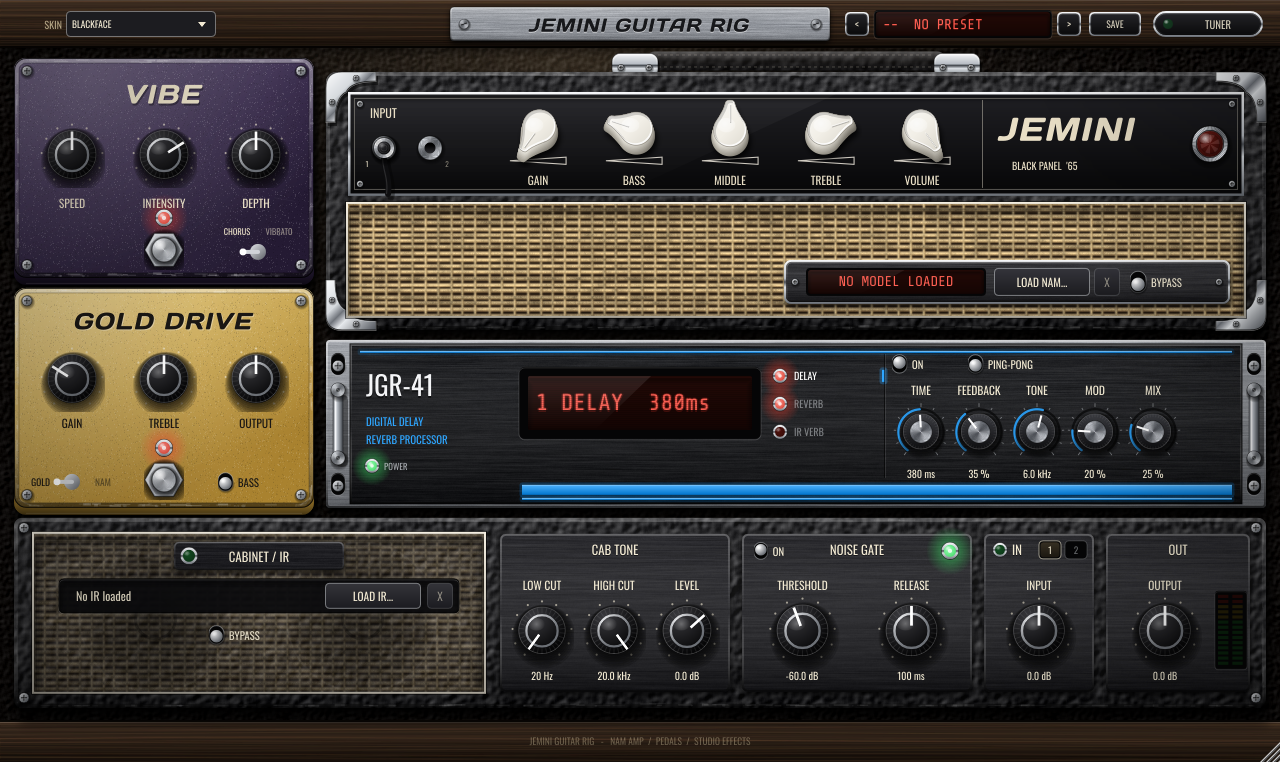
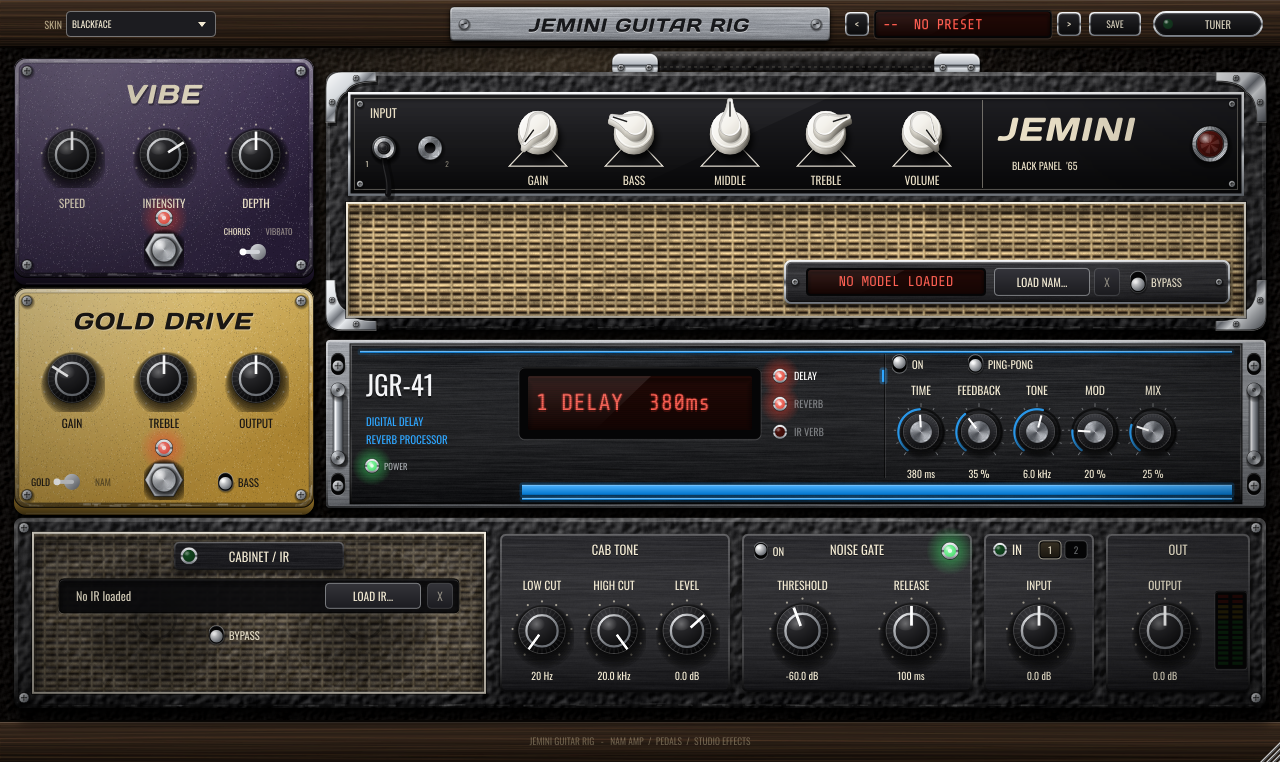
Amp knobs: two-piece white knob with triangle scale
Wide round skirt with a tapered side wall, and a raised chicken-head
pointer moulded on top with a black indicator line. A printed triangle
outline sits under each knob instead of the ramp.

Claude-Session: https://claude.ai/code/session_01Xrv8MNUsFMci2LD7dNoEYZ

Changed region(s): [[0.4688, 0.1207, 0.5938, 0.2415], [0.625, 0.1509, 0.75, 0.2415], [0.4062, 0.1509, 0.4375, 0.2415]]

diff --git a/Source/UI/JeminiLookAndFeel.cpp b/Source/UI/JeminiLookAndFeel.cpp
@@ -125,15 +125,14 @@ void JeminiLookAndFeel::drawBlackfaceKnob (juce::Graphics& g, juce::Rectangle<fl
 
     if (ampKnobChicken)
     {
-        // Printed ramp under the knob: thin outline wedge growing from min (left) to max (right)
-        const float y0 = c.y + r * 0.80f, x0 = c.x - r * 0.78f, x1 = c.x + r * 0.78f, hMax = r * 0.20f;
-        juce::Path ramp;
-        ramp.startNewSubPath (x0, y0);
-        ramp.lineTo (x1, y0 - hMax * 0.5f);
-        ramp.lineTo (x1, y0 + hMax * 0.5f);
-        ramp.closeSubPath();
-        g.setColour (ampKnobNumbers.withAlpha (enabled ? 0.85f : 0.4f));
-        g.strokePath (ramp, juce::PathStrokeType (juce::jmax (1.0f, r * 0.03f), juce::PathStrokeType::mitered));
+        // Printed triangle under the knob: apex hidden under the knob, base below it
+        juce::Path tri;
+        tri.startNewSubPath (c.x, c.y + r * 0.10f);
+        tri.lineTo (c.x + r * 0.80f, c.y + r * 0.95f);
+        tri.lineTo (c.x - r * 0.80f, c.y + r * 0.95f);
+        tri.closeSubPath();
+        g.setColour (ampKnobNumbers.withAlpha (enabled ? 0.9f : 0.4f));
+        g.strokePath (tri, juce::PathStrokeType (juce::jmax (1.0f, r * 0.035f), juce::PathStrokeType::mitered));
     }
     else
     {
@@ -151,77 +150,93 @@ void JeminiLookAndFeel::drawBlackfaceKnob (juce::Graphics& g, juce::Rectangle<fl
 
     if (ampKnobChicken)
     {
-        // Tall, chunky white chicken head: wide bulb, short broad pointer, visible moulded side wall
-        const float u = r;
-        juce::Path shape;
-        shape.startNewSubPath (-0.13f * u, -0.70f * u);
-        shape.cubicTo (-0.16f * u, -0.54f * u, -0.30f * u, -0.32f * u, -0.383f * u, -0.196f * u);
-        shape.addArc (-0.46f * u, -0.40f * u, 0.92f * u, 0.92f * u,
-                      -0.98f, -juce::MathConstants<float>::twoPi + 0.98f, false);
-        shape.cubicTo (0.30f * u, -0.32f * u, 0.16f * u, -0.54f * u, 0.13f * u, -0.70f * u);
-        shape.cubicTo (0.11f * u, -0.80f * u, -0.11f * u, -0.80f * u, -0.13f * u, -0.70f * u);
-        shape.closeSubPath();
-        shape.applyTransform (juce::AffineTransform::rotation (angle));
-
-        const float height = r * 0.20f;                       // how tall the knob stands off the panel
-        const auto  base   = shape.createPathWithRoundedCorners (0.0f);
-        auto at = [&base] (juce::Point<float> p, float k = 1.0f)
-        { juce::Path q (base); q.applyTransform (juce::AffineTransform::scale (k).translated (p)); return q; };
-        const float taper = 1.13f;                          // base of the knob is wider than its top (conical sides)
-
-        const auto topC = c.translated (0.0f, -height * 0.55f);   // top face sits up, side wall shows below
-        const auto botC = c.translated (0.0f,  height * 0.45f);
-
-        // Contact shadow + soft cast shadow
-        juce::DropShadow (juce::Colours::black.withAlpha (0.85f), (int) (r * 0.18f),
-                          { (int) std::round (r * 0.06f), (int) std::round (r * 0.12f) }).drawForPath (g, at (botC, taper));
-
-        // Side wall: sweep the outline from the base up to the top face
-        const int steps = juce::jmax (6, (int) height);
-        for (int i = 0; i <= steps; ++i)
+        // Two-piece white knob: wide round skirt, with a raised chicken-head pointer moulded on top
+        const auto lightGrad = [] (juce::Point<float> pc, float rad, float t, bool face)
         {
-            const float t = (float) i / (float) steps;
-            const auto pc = botC + (topC - botC) * t;
-            const auto bounds = juce::Rectangle<float> (r * 2.0f, r * 2.0f).withCentre (pc);
-            juce::ColourGradient wall (juce::Colour (0xffd9d6cd).interpolatedWith (juce::Colour (0xff8d897f), 1.0f - t), bounds.getCentreX() - r, pc.y,
-                                       juce::Colour (0xff9b978c).interpolatedWith (juce::Colour (0xff5e5a52), 1.0f - t), bounds.getCentreX() + r, pc.y, false);
-            wall.addColour (0.35, juce::Colour (0xfff1eee6).interpolatedWith (juce::Colour (0xffa6a296), 1.0f - t));
-            g.setGradientFill (wall);
-            g.fillPath (at (pc, taper + (1.0f - taper) * t));
-        }
+            const auto b = juce::Rectangle<float> (rad * 2.0f, rad * 2.0f).withCentre (pc);
+            if (face)
+            {
+                juce::ColourGradient gr (juce::Colour (0xffffffff), b.getTopLeft(), juce::Colour (0xffd2cec3), b.getBottomRight(), false);
+                gr.addColour (0.5, juce::Colour (0xfff4f2ec));
+                return gr;
+            }
+            const auto dark = juce::Colour (0xff8a867c), mid = juce::Colour (0xffe6e3da), lite = juce::Colour (0xfff7f5ef);
+            juce::ColourGradient gr (lite.interpolatedWith (dark, 0.55f * (1.0f - t)), b.getX(), pc.y,
+                                     dark.interpolatedWith (juce::Colour (0xff55524b), 1.0f - t), b.getRight(), pc.y, false);
+            gr.addColour (0.3, mid.interpolatedWith (dark, 0.5f * (1.0f - t)));
+            return gr;
+        };
 
-        // Top face: bright moulded plastic, lit from the upper left; fixed lighting while turning
-        const auto topPath = at (topC);
-        const auto tb = juce::Rectangle<float> (r * 1.8f, r * 1.8f).withCentre (topC);
-        juce::ColourGradient face (juce::Colour (0xffffffff), tb.getTopLeft(),
-                                   juce::Colour (0xffcdc9bd), tb.getBottomRight(), false);
-        face.addColour (0.5, juce::Colour (0xfff2efe7));
-        g.setGradientFill (face);
-        g.fillPath (topPath);
+        // Extrude a path upward from 'from' to 'to', tapering from scale k0 to k1, then fill its top face
+        const auto extrude = [&] (const juce::Path& shape, float rad, juce::Point<float> from, juce::Point<float> to, float k0, float k1)
+        {
+            const int steps = juce::jmax (5, (int) std::ceil (to.getDistanceFrom (from)));
+            for (int i = 0; i <= steps; ++i)
+            {
+                const float t = (float) i / (float) steps;
+                const auto pc = from + (to - from) * t;
+                juce::Path q (shape);
+                q.applyTransform (juce::AffineTransform::scale (k0 + (k1 - k0) * t).translated (pc));
+                g.setGradientFill (lightGrad (pc, rad, t, false));
+                g.fillPath (q);
+            }
+            juce::Path top (shape);
+            top.applyTransform (juce::AffineTransform::scale (k1).translated (to));
+            g.setGradientFill (lightGrad (to, rad, 1.0f, true));
+            g.fillPath (top);
+            return top;
+        };
 
-        // Rounded top edge: dark rim at the lower right, light rim at the upper left
-        g.saveState();
-        g.reduceClipRegion (topPath);
-        g.setColour (juce::Colours::black.withAlpha (0.16f));
-        g.strokePath (at (topC.translated (r * 0.03f, r * 0.04f)), juce::PathStrokeType (r * 0.08f));
-        g.setColour (juce::Colours::white.withAlpha (0.9f));
-        g.strokePath (at (topC.translated (-r * 0.025f, -r * 0.03f)), juce::PathStrokeType (r * 0.05f));
-        // soft sheen on the bulb
-        juce::ColourGradient gloss (juce::Colours::white.withAlpha (0.7f), topC.translated (-r * 0.14f, -r * 0.12f),
-                                    juce::Colours::white.withAlpha (0.0f), topC.translated (r * 0.18f, r * 0.2f), true);
-        g.setGradientFill (gloss);
-        g.fillEllipse (juce::Rectangle<float> (r * 0.5f, r * 0.4f).withCentre (topC.translated (-r * 0.1f, -r * 0.08f)));
-        g.restoreState();
+        // --- skirt -----------------------------------------------------------
+        const float skirtR = r * 0.52f, skirtH = r * 0.13f;
+        juce::Path disc;  disc.addEllipse (-skirtR, -skirtR, skirtR * 2.0f, skirtR * 2.0f);
+        const auto s0 = c.translated (0.0f, skirtH * 0.5f), s1 = c.translated (0.0f, -skirtH * 0.5f);
 
-        g.setColour (juce::Colour (0xff6d685e).withAlpha (0.55f));
-        g.strokePath (topPath, juce::PathStrokeType (0.8f));
+        juce::Path shadowDisc (disc); shadowDisc.applyTransform (juce::AffineTransform::scale (1.08f).translated (s0));
+        juce::DropShadow (juce::Colours::black.withAlpha (0.85f), (int) (r * 0.2f),
+                          { (int) std::round (r * 0.07f), (int) std::round (r * 0.13f) }).drawForPath (g, shadowDisc);
 
-        // Subtle moulded ridge along the pointer (light + shadow line) instead of a painted line
-        const auto p0 = polar (topC, r * 0.16f, angle), p1 = polar (topC, r * 0.66f, angle);
-        g.setColour (juce::Colours::black.withAlpha (enabled ? 0.22f : 0.1f));
-        g.drawLine ({ p0.translated (0.6f, 0.8f), p1.translated (0.6f, 0.8f) }, juce::jmax (1.2f, r * 0.035f));
+        const auto skirtTop = extrude (disc, skirtR, s0, s1, 1.08f, 1.0f);
+        g.setColour (juce::Colours::black.withAlpha (0.18f));
+        g.strokePath (skirtTop, juce::PathStrokeType (0.8f));
+        // soft rounded rim highlight
         g.setColour (juce::Colours::white.withAlpha (0.8f));
-        g.drawLine ({ p0, p1 }, juce::jmax (0.8f, r * 0.02f));
+        g.drawEllipse (juce::Rectangle<float> (skirtR * 1.86f, skirtR * 1.86f).withCentre (s1.translated (-0.4f, -0.6f)), 0.8f);
+
+        // --- raised pointer ----------------------------------------------------
+        const float u = r;
+        juce::Path fin;
+        fin.startNewSubPath (-0.075f * u, -0.66f * u);
+        fin.cubicTo (-0.09f * u, -0.46f * u, -0.17f * u, -0.30f * u, -0.25f * u, -0.17f * u);
+        fin.addArc (-0.30f * u, -0.26f * u, 0.60f * u, 0.60f * u, -0.99f, -juce::MathConstants<float>::twoPi + 0.99f, false);
+        fin.cubicTo (0.17f * u, -0.30f * u, 0.09f * u, -0.46f * u, 0.075f * u, -0.66f * u);
+        fin.cubicTo (0.06f * u, -0.73f * u, -0.06f * u, -0.73f * u, -0.075f * u, -0.66f * u);
+        fin.closeSubPath();
+        fin.applyTransform (juce::AffineTransform::rotation (angle));
+
+        const float finH = r * 0.16f;
+        const auto f0 = s1, f1 = s1.translated (0.0f, -finH);
+        juce::Path finShadow (fin); finShadow.applyTransform (juce::AffineTransform::translation (f0.translated (r * 0.03f, r * 0.05f)));
+        g.setColour (juce::Colours::black.withAlpha (0.18f));
+        g.fillPath (finShadow);
+        const auto finTop = extrude (fin, r * 0.5f, f0, f1, 1.06f, 1.0f);
+
+        // rounded top edge of the pointer
+        g.saveState();
+        g.reduceClipRegion (finTop);
+        juce::Path rimLo (finTop); rimLo.applyTransform (juce::AffineTransform::translation (r * 0.025f, r * 0.035f));
+        g.setColour (juce::Colours::black.withAlpha (0.12f));
+        g.strokePath (rimLo, juce::PathStrokeType (r * 0.06f));
+        juce::Path rimHi (finTop); rimHi.applyTransform (juce::AffineTransform::translation (-r * 0.02f, -r * 0.025f));
+        g.setColour (juce::Colours::white.withAlpha (0.95f));
+        g.strokePath (rimHi, juce::PathStrokeType (r * 0.04f));
+        g.restoreState();
+        g.setColour (juce::Colour (0xff77726a).withAlpha (0.45f));
+        g.strokePath (finTop, juce::PathStrokeType (0.7f));
+
+        // black indicator line along the pointer
+        g.setColour (juce::Colour (0xff121212).withAlpha (enabled ? 0.95f : 0.5f));
+        g.drawLine ({ polar (f1, r * 0.20f, angle), polar (f1, r * 0.62f, angle) }, juce::jmax (1.3f, r * 0.04f));
         return;
     }
 
